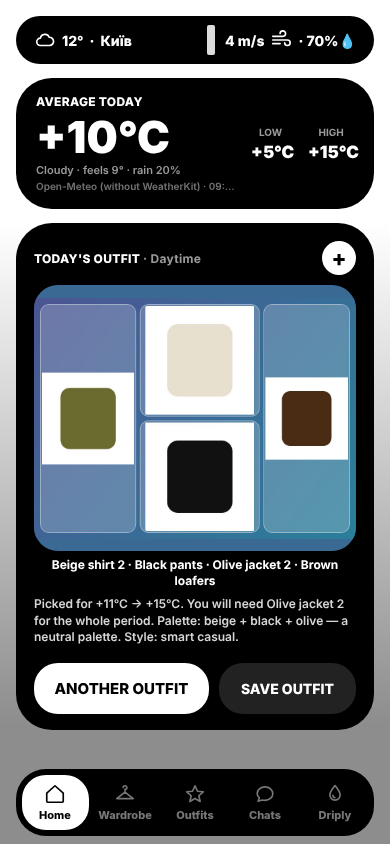
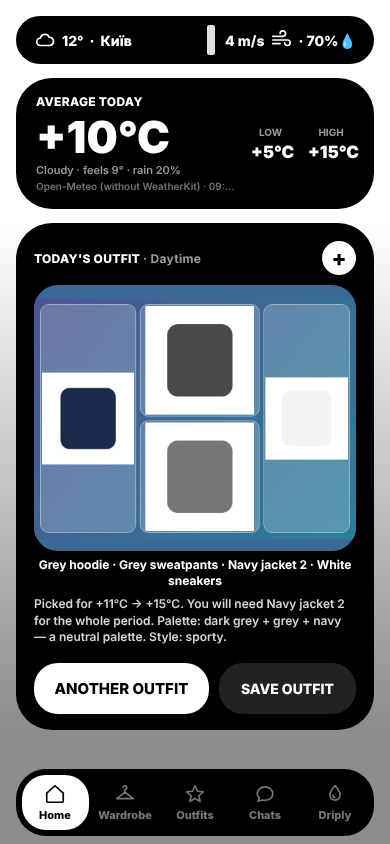
Tab bar: same level on every page, never clipped (revert negative offset), SW v99
Claude-Session: https://claude.ai/code/session_01S2HiD2gXmzHQ91dDofdPVs

diff --git a/index.html b/index.html
@@ -10,8 +10,8 @@
 <meta name="apple-mobile-web-app-status-bar-style" content="black-translucent">
 <link rel="apple-touch-icon" href="icons/icon-192.png">
 <link rel="icon" href="icons/icon-192.png">
-<script>/* iOS home-screen apps can report a layout viewport shorter than the screen: measure the missing strip (--sd) so bottom-anchored layers reach the real bottom edge */
-(function(){function f(){try{var a=document.activeElement;if(a&&/^(INPUT|TEXTAREA|SELECT)$/.test(a.tagName))return;var d=0,st=navigator.standalone||(matchMedia&&matchMedia('(display-mode: standalone)').matches);if(st&&innerHeight>innerWidth){d=Math.round(screen.height-innerHeight);if(d<8||d>120)d=0}document.documentElement.style.setProperty('--sd',d+'px')}catch(e){}}f();addEventListener('resize',f);addEventListener('orientationchange',f);addEventListener('pageshow',f);addEventListener('focusout',function(){setTimeout(f,500)})})();</script>
+<script>/* iOS home-screen apps can report a layout viewport shorter than the screen (strip at the bottom, content there is clipped): then the strip already provides the home-indicator margin, so the tab bar sits 8px above the layout edge on every page */
+(function(){function f(){try{var a=document.activeElement;if(a&&/^(INPUT|TEXTAREA|SELECT)$/.test(a.tagName))return;var d=0,st=navigator.standalone||(matchMedia&&matchMedia('(display-mode: standalone)').matches);if(st&&innerHeight>innerWidth){d=Math.round(screen.height-innerHeight);if(d<8||d>120)d=0}document.documentElement.style.setProperty('--sd',d+'px');document.documentElement.style.setProperty('--nb',d>0?'8px':'calc(8px + env(safe-area-inset-bottom,0px) * .4)')}catch(e){}}f();addEventListener('resize',f);addEventListener('orientationchange',f);addEventListener('pageshow',f);addEventListener('focusout',function(){setTimeout(f,500)})})();</script>
 <style>
 :root{--h:#000;--bg1:#fff;--bg2:#8d8d8d;--card:#000;--fg:#fff;--mut:#9a9a9a;box-sizing:border-box;padding-top:env(safe-area-inset-top,0px)}
 :root[data-theme=dark]{--h:#fff;--bg1:#2a2a2a;--bg2:#000;--card:#111;--fg:#fff}
@@ -49,7 +49,7 @@ svg{fill:none;stroke:currentColor;stroke-width:1.8;stroke-linecap:round;stroke-l
 .hr{display:flex;justify-content:space-between;font-size:13px;padding:7px 0;border-bottom:1px solid #222}
 .hr:last-child{border:0}
 .hr i{font-style:normal;color:var(--mut);font-weight:600}
-nav{position:fixed;left:50%;transform:translateX(-50%);bottom:calc(8px + env(safe-area-inset-bottom,0px) * .4 - var(--sd,0px));background:#000;border-radius:30px;display:flex;gap:4px;padding:6px;width:min(calc(100% - 32px),488px)}
+nav{position:fixed;left:50%;transform:translateX(-50%);bottom:var(--nb,calc(8px + env(safe-area-inset-bottom,0px) * .4));background:#000;border-radius:30px;display:flex;gap:4px;padding:6px;width:min(calc(100% - 32px),488px)}
 nav button{flex:1;background:none;border:0;color:#777;font:inherit;font-size:11px;padding:8px 0;border-radius:24px;cursor:pointer;display:flex;flex-direction:column;align-items:center;gap:3px}
 nav button.on{color:#000}
 nav{touch-action:none;-webkit-user-select:none;user-select:none}
@@ -190,7 +190,6 @@ h2.h3{font-size:15px;margin:20px 4px 12px}
 .gp{margin:8px 0;border-radius:20px;background:rgba(127,127,127,.12);border:1px solid rgba(127,127,127,.28);overflow:hidden}.gh{all:unset;box-sizing:border-box;display:flex;align-items:center;gap:10px;width:100%;padding:10px 12px;cursor:pointer;color:var(--h);-webkit-tap-highlight-color:transparent}.gh:focus-visible{outline:2px solid currentColor;outline-offset:-3px;border-radius:20px}.gt{flex:1;min-width:0;font-size:13px;font-weight:800}.gm{display:flex;flex:none}.gm img{width:26px;height:26px;object-fit:contain;margin-left:-10px;filter:drop-shadow(0 1px 2px rgba(0,0,0,.25))}.gm img:first-child{margin-left:0}.gc{flex:none;font-size:12px;font-weight:800;min-width:26px;text-align:center;background:rgba(127,127,127,.25);border-radius:10px;padding:2px 8px}.chev{flex:none;width:8px;height:8px;margin:0 4px 3px 2px;border-right:2px solid currentColor;border-bottom:2px solid currentColor;transform:rotate(45deg);transition:transform .25s}.gp.open .chev{transform:rotate(-135deg);margin-bottom:-3px}.gp.open .gm{display:none}.gb{display:none;padding:2px 8px 10px}.gp.open .gb{display:block}
 .sbk{display:flex;align-items:center;gap:6px;margin:0 0 4px}.sbk h2{margin:0}.sbb{border:0;background:none;color:var(--h);width:40px;height:40px;border-radius:50%;display:flex;align-items:center;justify-content:center;cursor:pointer;margin-left:-10px;transition:background .2s,transform .15s}.sbb:active{transform:scale(.88)}:root[data-theme=glass] .sbb,:root[data-theme=dark] .sbb{color:#fff}.sbb svg{fill:none;stroke:currentColor;stroke-width:2.2;stroke-linecap:round;stroke-linejoin:round}
 
-.ed,.ch-iv,.modal{bottom:calc(var(--sd,0px)*-1)!important}.ch-ov{height:calc(100% + var(--sd,0px))!important}
 body.sv-open #app,body.sv-open nav{visibility:hidden}
 </style></head><body>
 <div id="off">Нет интернета — показаны сохранённые данные</div>

diff --git a/sw.js b/sw.js
@@ -1,4 +1,4 @@
-const V='wardrobe-v98',MEDIA='wd-media',DEMO=["demo/chinos-beige.webp", "demo/coat-trench.webp", "demo/coat-wool.webp", "demo/hoodie-black-zip.webp", "demo/hoodie-grey.webp", "demo/jacket-black-highneck.webp", "demo/jacket-bomber.webp", "demo/jacket-denim-black.webp", "demo/jacket-denim.webp", "demo/jacket-rain.webp", "demo/jacket-suede-beige.webp", "demo/jeans-black-flare.webp", "demo/jeans-black-wide.webp", "demo/jeans-black.webp", "demo/jeans-blue.webp", "demo/jeans-lightblue-flare.webp", "demo/loafers-brown.webp", "demo/longsleeve-striped.webp", "demo/polo-black.webp", "demo/polo-white.webp", "demo/puffer-black.webp", "demo/puffer-white.webp", "demo/shirt-blue.webp", "demo/shirt-white.webp", "demo/shorts-denim.webp", "demo/sneakers-black.webp", "demo/sneakers-gat-black.webp", "demo/sneakers-gat-white.webp", "demo/sneakers-white.webp", "demo/sweater-beige.webp", "demo/sweater-black-cable.webp", "demo/sweater-black-quarter.webp", "demo/sweater-grey-cable.webp", "demo/sweater-navy.webp", "demo/sweater-pink-cable.webp", "demo/sweater-white-cable.webp", "demo/sweatpants-grey.webp", "demo/tee-black.webp", "demo/tee-grey.webp", "demo/tee-white.webp", "demo/trousers-black.webp", "demo/jordan-puffer-black.webp", "demo/palace-puffer-black.webp", "demo/bape-tee-white.webp", "demo/balenciaga-fortnite-tee.webp", "demo/polo-usa-zip-hoodie-grey.webp", "demo/mastermind-hoodie-black.webp", "demo/mastermind-hoodie-pink.webp", "demo/supreme-waffle-sweater-cream.webp", "demo/supreme-waffle-sweater-black.webp", "demo/saint-laurent-mohair-sweater.webp", "demo/supreme-blur-sweater.webp", "demo/supreme-zip-hoodie-black.webp", "demo/supreme-zip-hoodie-grey.webp", "demo/supreme-zip-hoodie-washed-black.webp"],SHELL=['./','index.html','i18n.js','social.js','editor.js','chat.js','manifest.webmanifest','icons/icon-192.png','icons/icon-512.png','tab.mp3'];
+const V='wardrobe-v99',MEDIA='wd-media',DEMO=["demo/chinos-beige.webp", "demo/coat-trench.webp", "demo/coat-wool.webp", "demo/hoodie-black-zip.webp", "demo/hoodie-grey.webp", "demo/jacket-black-highneck.webp", "demo/jacket-bomber.webp", "demo/jacket-denim-black.webp", "demo/jacket-denim.webp", "demo/jacket-rain.webp", "demo/jacket-suede-beige.webp", "demo/jeans-black-flare.webp", "demo/jeans-black-wide.webp", "demo/jeans-black.webp", "demo/jeans-blue.webp", "demo/jeans-lightblue-flare.webp", "demo/loafers-brown.webp", "demo/longsleeve-striped.webp", "demo/polo-black.webp", "demo/polo-white.webp", "demo/puffer-black.webp", "demo/puffer-white.webp", "demo/shirt-blue.webp", "demo/shirt-white.webp", "demo/shorts-denim.webp", "demo/sneakers-black.webp", "demo/sneakers-gat-black.webp", "demo/sneakers-gat-white.webp", "demo/sneakers-white.webp", "demo/sweater-beige.webp", "demo/sweater-black-cable.webp", "demo/sweater-black-quarter.webp", "demo/sweater-grey-cable.webp", "demo/sweater-navy.webp", "demo/sweater-pink-cable.webp", "demo/sweater-white-cable.webp", "demo/sweatpants-grey.webp", "demo/tee-black.webp", "demo/tee-grey.webp", "demo/tee-white.webp", "demo/trousers-black.webp", "demo/jordan-puffer-black.webp", "demo/palace-puffer-black.webp", "demo/bape-tee-white.webp", "demo/balenciaga-fortnite-tee.webp", "demo/polo-usa-zip-hoodie-grey.webp", "demo/mastermind-hoodie-black.webp", "demo/mastermind-hoodie-pink.webp", "demo/supreme-waffle-sweater-cream.webp", "demo/supreme-waffle-sweater-black.webp", "demo/saint-laurent-mohair-sweater.webp", "demo/supreme-blur-sweater.webp", "demo/supreme-zip-hoodie-black.webp", "demo/supreme-zip-hoodie-grey.webp", "demo/supreme-zip-hoodie-washed-black.webp"],SHELL=['./','index.html','i18n.js','social.js','editor.js','chat.js','manifest.webmanifest','icons/icon-192.png','icons/icon-512.png','tab.mp3'];
 self.addEventListener('install',e=>{e.waitUntil(caches.open(V).then(c=>c.addAll(SHELL).then(()=>Promise.all(DEMO.map(u=>c.add(u).catch(()=>{}))))).then(()=>self.skipWaiting()))});
 self.addEventListener('activate',e=>{e.waitUntil(caches.keys().then(k=>Promise.all(k.filter(x=>x!==V&&x!==MEDIA).map(x=>caches.delete(x)))).then(()=>self.clients.claim()))});
 self.addEventListener('fetch',e=>{

diff --git a/social.js b/social.js
@@ -1007,7 +1007,7 @@ function storyOpen(gi) {
     const a = b.dataset.a; if (a === 'x') closeStory(); else if (a === 'del') delStory(); else if (a === 'views') viewersPanel(); else if (a === 'vx') { V.panel = false; const w = el.querySelector('.sc-vw'); if (w) w.remove(); } else if (a === 'prof') { const n = b.dataset.n; closeStory(); profile(n); } else if (a === 'like') likeStory(b);
   });
   // iOS: the keyboard resizes/pans the page. Freeze the story at its opening size so the picture never moves or squashes; only the reply controls rise above the keyboard.
-  const H0 = window.innerHeight + (parseFloat(getComputedStyle(document.documentElement).getPropertyValue('--sd')) || 0); el.style.height = H0 + 'px'; el.style.bottom = 'auto';
+  const H0 = window.innerHeight; el.style.height = H0 + 'px'; el.style.bottom = 'auto';
   const vv = window.visualViewport;
   if (vv) {
     let raf = 0; const fit = () => { if (raf) return; raf = requestAnimationFrame(() => { raf = 0; fit2(); }); };
